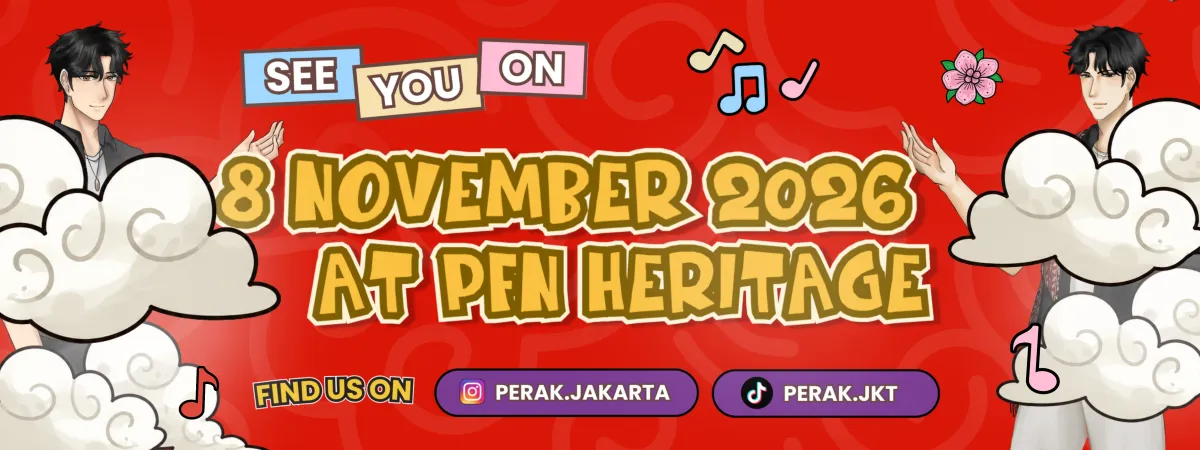
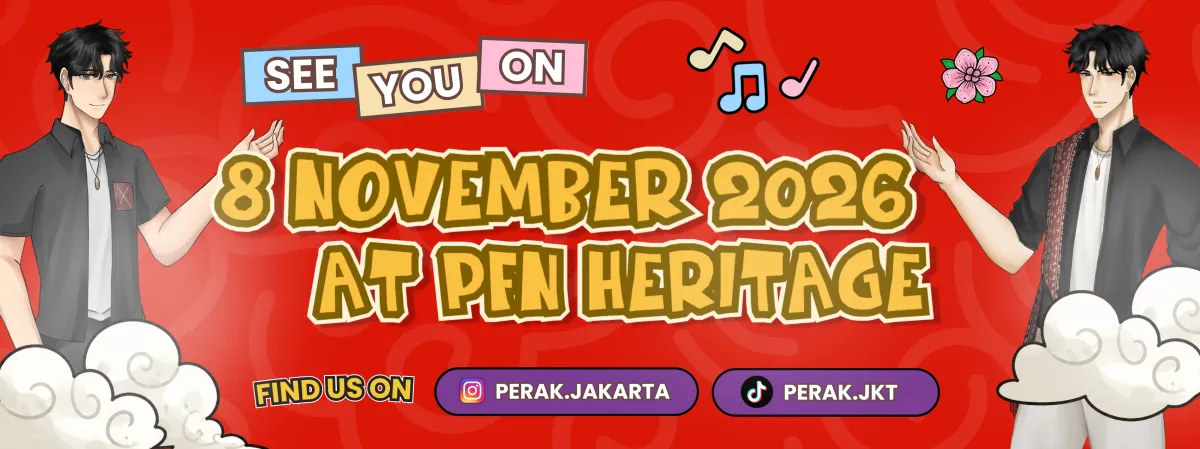
update pokonya

diff --git a/index.html b/index.html
@@ -15,8 +15,39 @@
   <link rel="preconnect" href="https://fonts.gstatic.com" crossorigin>
   <link href="https://fonts.googleapis.com/css2?family=Poppins:ital,wght@0,500;0,600;0,700;1,700&display=swap" rel="stylesheet">
   <link rel="stylesheet" href="css/style.css">
+
+  <!-- ditaruh di head supaya loader langsung tampil & scroll dikunci sejak awal -->
+  <script>document.documentElement.classList.add('js', 'is-loading');</script>
 </head>
 <body>
+
+  <!-- ============ LOADER: awan menutup layar lalu membelah ============ -->
+  <div class="loader" role="status" aria-label="Memuat halaman">
+    <div class="loader__half loader__half--left" aria-hidden="true">
+      <img class="loader__cloud" src="assets/img/deco/awan-polos-1.webp" alt="" style="--top:-8%; --edge:-18%;">
+      <img class="loader__cloud" src="assets/img/deco/awan-kiri-ornamen.webp" alt="" style="--top:16%; --edge:-26%;">
+      <img class="loader__cloud" src="assets/img/deco/awan-polos-1.webp" alt="" style="--top:40%; --edge:-14%;">
+      <img class="loader__cloud" src="assets/img/deco/awan-kiri-ornamen.webp" alt="" style="--top:64%; --edge:-24%;">
+      <img class="loader__cloud" src="assets/img/deco/awan-polos-1.webp" alt="" style="--top:88%; --edge:-16%;">
+      <img class="loader__cloud loader__cloud--outer" src="assets/img/deco/awan-polos-2.webp" alt="" style="--top:4%;">
+      <img class="loader__cloud loader__cloud--outer" src="assets/img/deco/awan-polos-2.webp" alt="" style="--top:48%;">
+      <img class="loader__cloud loader__cloud--outer" src="assets/img/deco/awan-kiri-ornamen.webp" alt="" style="--top:80%;">
+    </div>
+    <div class="loader__half loader__half--right" aria-hidden="true">
+      <img class="loader__cloud" src="assets/img/deco/awan-polos-2.webp" alt="" style="--top:-20%; --edge:-20%;">
+      <img class="loader__cloud" src="assets/img/deco/awan-kanan-ornamen.webp" alt="" style="--top:4%; --edge:-14%;">
+      <img class="loader__cloud" src="assets/img/deco/awan-polos-2.webp" alt="" style="--top:28%; --edge:-24%;">
+      <img class="loader__cloud" src="assets/img/deco/awan-kanan-ornamen.webp" alt="" style="--top:52%; --edge:-16%;">
+      <img class="loader__cloud" src="assets/img/deco/awan-polos-2.webp" alt="" style="--top:76%; --edge:-22%;">
+      <img class="loader__cloud loader__cloud--outer" src="assets/img/deco/awan-polos-1.webp" alt="" style="--top:-6%;">
+      <img class="loader__cloud loader__cloud--outer" src="assets/img/deco/awan-kanan-ornamen.webp" alt="" style="--top:36%;">
+      <img class="loader__cloud loader__cloud--outer" src="assets/img/deco/awan-polos-1.webp" alt="" style="--top:70%;">
+    </div>
+
+    <div class="loader__center" aria-hidden="true">
+      <img class="loader__logo" src="assets/img/deco/logo-pesta-rakyat.webp" alt="" width="1000" height="759">
+    </div>
+  </div>
 
   <!-- ============ NAVBAR (menempel di atas) ============ -->
   <header class="navbar">
@@ -82,24 +113,24 @@
 
     <!-- ============ GAP: running text ============ -->
     <div class="gap marquee">
-      <p class="sr-only">Pesta Rakyat 2026 • Rayakan Pesta Mu</p>
+      <p class="sr-only">Pesta Rakyat 2026 • RAYAKAN CERITAMU</p>
       <!-- 2 grup identik: grup ke-2 menyambung grup pertama supaya loop tidak putus -->
       <div class="marquee__track" aria-hidden="true">
         <div class="marquee__group">
           <span>PESTA RAKYAT 2026</span><span class="marquee__dot">•</span>
-          <span>RAYAKAN PESTA MU</span><span class="marquee__dot">•</span>
+          <span>RAYAKAN CERITAMU</span><span class="marquee__dot">•</span>
           <span>PESTA RAKYAT 2026</span><span class="marquee__dot">•</span>
-          <span>RAYAKAN PESTA MU</span><span class="marquee__dot">•</span>
+          <span>RAYAKAN CERITAMU</span><span class="marquee__dot">•</span>
           <span>PESTA RAKYAT 2026</span><span class="marquee__dot">•</span>
-          <span>RAYAKAN PESTA MU</span><span class="marquee__dot">•</span>
+          <span>RAYAKAN CERITAMU</span><span class="marquee__dot">•</span>
         </div>
         <div class="marquee__group">
           <span>PESTA RAKYAT 2026</span><span class="marquee__dot">•</span>
-          <span>RAYAKAN PESTA MU</span><span class="marquee__dot">•</span>
+          <span>RAYAKAN CERITAMU</span><span class="marquee__dot">•</span>
           <span>PESTA RAKYAT 2026</span><span class="marquee__dot">•</span>
-          <span>RAYAKAN PESTA MU</span><span class="marquee__dot">•</span>
+          <span>RAYAKAN CERITAMU</span><span class="marquee__dot">•</span>
           <span>PESTA RAKYAT 2026</span><span class="marquee__dot">•</span>
-          <span>RAYAKAN PESTA MU</span><span class="marquee__dot">•</span>
+          <span>RAYAKAN CERITAMU</span><span class="marquee__dot">•</span>
         </div>
       </div>
     </div>
@@ -166,12 +197,12 @@
     <footer class="footer" id="info">
       <img class="footer__bg" src="assets/img/bg/footer-2400.webp"
            srcset="assets/img/bg/footer-1200.webp 1200w, assets/img/bg/footer-2400.webp 2400w" sizes="100vw"
-           width="2400" height="900" alt="See you on 8 November 2026 at PFN Heritage" loading="lazy">
+           width="2400" height="897" alt="See you on 8 November 2026 at PFN Heritage" loading="lazy">
 
       <a class="hotspot hotspot--pill" href="https://www.instagram.com/perak.jakarta/" target="_blank" rel="noopener"
-         style="--x:36.2%; --y:81.9%; --w:22.4%; --h:10.8%;" aria-label="Instagram @perak.jakarta"></a>
+         style="--x:36.2%; --y:81.9%; --w:22.0%; --h:10.7%;" aria-label="Instagram @perak.jakarta"></a>
       <a class="hotspot hotspot--pill" href="https://www.tiktok.com/@perak.jkt" target="_blank" rel="noopener"
-         style="--x:59.3%; --y:81.9%; --w:18.9%; --h:10.8%;" aria-label="TikTok @perak.jkt"></a>
+         style="--x:59.3%; --y:82.1%; --w:19.0%; --h:10.7%;" aria-label="TikTok @perak.jkt"></a>
     </footer>
 
     <!-- ============ RUNNING TEXT BAWAH ============ -->

diff --git a/css/style.css b/css/style.css
@@ -273,27 +273,35 @@ img { display: block; max-width: 100%; }
             mask-image: linear-gradient(transparent, #000 10%);
   }
 
-  /* bagian tengah: sisi ungu polos + kotak kuning (baris 680–880 gambar)
-     yang di-stretch vertikal sepanjang teks */
+  /* bagian tengah: kotak kuning (baris 680–880 gambar) di-stretch vertikal
+     sepanjang teks. Sisi kanan ungu polos; sisi kiri diberi gradasi terang
+     karena di gambar asli ada cahaya dari bintang kiri bawah. */
   .about__mid {
     position: relative;
     inset: auto;
     display: block;
     margin-top: -1.36%;
+    background:
+      linear-gradient(var(--purple), var(--purple)) right / 50% 100% no-repeat,
+      linear-gradient(#8e59a3, #b08abe);
   }
 
+  /* garis kotak di gambar: kiri 11.4%, kanan 86.2% (tidak simetris) */
   .about__mid::before {
     content: "";
     position: absolute;
-    inset: 0 13.7%;
-    background: var(--about-img) 50% 40.28% / 137.74% 944% no-repeat;
+    top: 0;
+    bottom: 0;
+    left: 11.1%;
+    right: 13.5%;
+    background: var(--about-img) 45.12% 40.28% / 132.63% 944% no-repeat;
   }
 
   /* z-index 2: teks di atas potongan bawah; kiri 19.5% supaya tidak kena mic */
   .about__text {
     position: relative;
     z-index: 2;
-    padding: 2.9% 17.5% 0 19.5%;
+    padding: 2.9% 16% 0 19.5%;
     font-size: 15px;
     line-height: 1.6;
     font-weight: 500;
@@ -304,13 +312,8 @@ img { display: block; max-width: 100%; }
   .about { --about-img: url("../assets/img/bg/about-1200.webp"); }
 }
 
-/* HP: kotak dizoom supaya teks lebih lebar & judul lebih besar */
+/* HP: teks lebih kecil & rata kiri (kotak tidak dizoom supaya mic & bintang utuh) */
 @media (max-width: 600px) {
-  .about__frame {
-    width: 128%;
-    margin-left: -14%;
-  }
-
   .about__text {
     font-size: 14px;
     text-align: left;
@@ -453,6 +456,105 @@ img { display: block; max-width: 100%; }
   outline: none;
   box-shadow: 0 0 0 3px #fff;
 }
+
+/* =================== LOADER =================== */
+/* Tampil hanya kalau JS aktif (kelas .js dipasang di <head>) */
+.loader { display: none; }
+
+.js .loader {
+  --loader-bg: #f7f2ea; /* warna awan */
+  display: block;
+  position: fixed;
+  inset: 0;
+  z-index: 100;
+  overflow: hidden;
+  background-color: var(--loader-bg);
+  transition: background-color 0.6s ease 0.5s;
+}
+
+/* kunci scroll selama loading */
+html.is-loading { overflow: hidden; }
+
+.loader__half {
+  position: absolute;
+  top: 0;
+  bottom: 0;
+  width: 50%;
+}
+
+.loader__half--left { left: 0; z-index: 2; }
+.loader__half--right { right: 0; z-index: 1; }
+
+.loader__cloud {
+  position: absolute;
+  top: var(--top);
+  height: max(min(34vh, 55vw), 150px);
+  width: auto;
+  max-width: none;
+  transition:
+    translate 1.3s cubic-bezier(0.7, 0, 0.2, 1),
+    scale 1.3s cubic-bezier(0.7, 0, 0.2, 1);
+}
+
+/* awan di tengah (garis sambungan) sedikit melewati batas tengah */
+.loader__half--left .loader__cloud { right: var(--edge); }
+.loader__half--right .loader__cloud { left: var(--edge); }
+
+/* awan pinggir */
+.loader__half--left .loader__cloud--outer { right: auto; left: -20%; }
+.loader__half--right .loader__cloud--outer { left: auto; right: -20%; }
+
+/* awan mulai membelah setelah logo selesai fade out (±0.35s) */
+.loader__cloud { transition-delay: 0.35s; }
+.loader__cloud:nth-child(even) { transition-delay: 0.43s; }
+.loader__cloud--outer { transition-delay: 0.49s; }
+
+/* ---- membuka: awan kiri ke kiri, awan kanan ke kanan ---- */
+.loader.is-open {
+  background-color: transparent;
+  pointer-events: none;
+}
+
+.loader.is-open .loader__half--left .loader__cloud { translate: -160vw 0; scale: 1.15; }
+.loader.is-open .loader__half--right .loader__cloud { translate: 160vw 0; scale: 1.15; }
+
+/* ---- logo di tengah (fade out sebelum awan membelah) ---- */
+.loader__center {
+  position: absolute;
+  inset: 0;
+  z-index: 3;
+  display: grid;
+  place-items: center;
+  transition: opacity 0.4s ease, scale 0.4s ease;
+}
+
+.loader__center::before {
+  content: "";
+  position: absolute;
+  left: 50%;
+  top: 50%;
+  width: min(95vw, 640px);
+  height: min(95vw, 640px);
+  translate: -50% -50%;
+  z-index: -1;
+  background: radial-gradient(closest-side, var(--loader-bg) 55%, transparent);
+}
+
+.loader.is-open .loader__center { opacity: 0; scale: 0.92; }
+
+.loader__logo {
+  width: min(62vw, 500px);
+  height: auto;
+  filter: drop-shadow(0 8px 0 rgba(0, 0, 0, 0.12));
+  animation: logo-breathe 1.8s ease-in-out infinite;
+}
+
+/* logo "bernapas" pelan selama loading */
+@keyframes logo-breathe {
+  0%, 100% { scale: 1; rotate: -2deg; }
+  50% { scale: 1.06; rotate: 2deg; }
+}
+
 
 /* =================== NAVBAR =================== */
 .navbar {

diff --git a/js/main.js b/js/main.js
@@ -85,3 +85,29 @@ if (menuBtn && drawer) {
     link.addEventListener('click', () => closeMenu({ returnFocus: false }));
   });
 }
+
+// ---------- Loader: awan membelah saat halaman selesai dimuat ----------
+const loader = document.querySelector('.loader');
+
+if (loader) {
+  const MIN_SHOW = 1200; // ms, supaya animasi sempat terlihat walau loading cepat
+  let opened = false;
+
+  const openLoader = () => {
+    if (opened) return;
+    opened = true;
+    const wait = Math.max(0, MIN_SHOW - performance.now());
+
+    setTimeout(() => {
+      loader.classList.add('is-open');
+      document.documentElement.classList.remove('is-loading');
+      setTimeout(() => loader.remove(), reduceMotion ? 0 : 2200);
+    }, wait);
+  };
+
+  if (document.readyState === 'complete') openLoader();
+  else window.addEventListener('load', openLoader, { once: true });
+
+  // jaga-jaga kalau ada gambar yang lama sekali dimuat
+  setTimeout(openLoader, 8000);
+}
